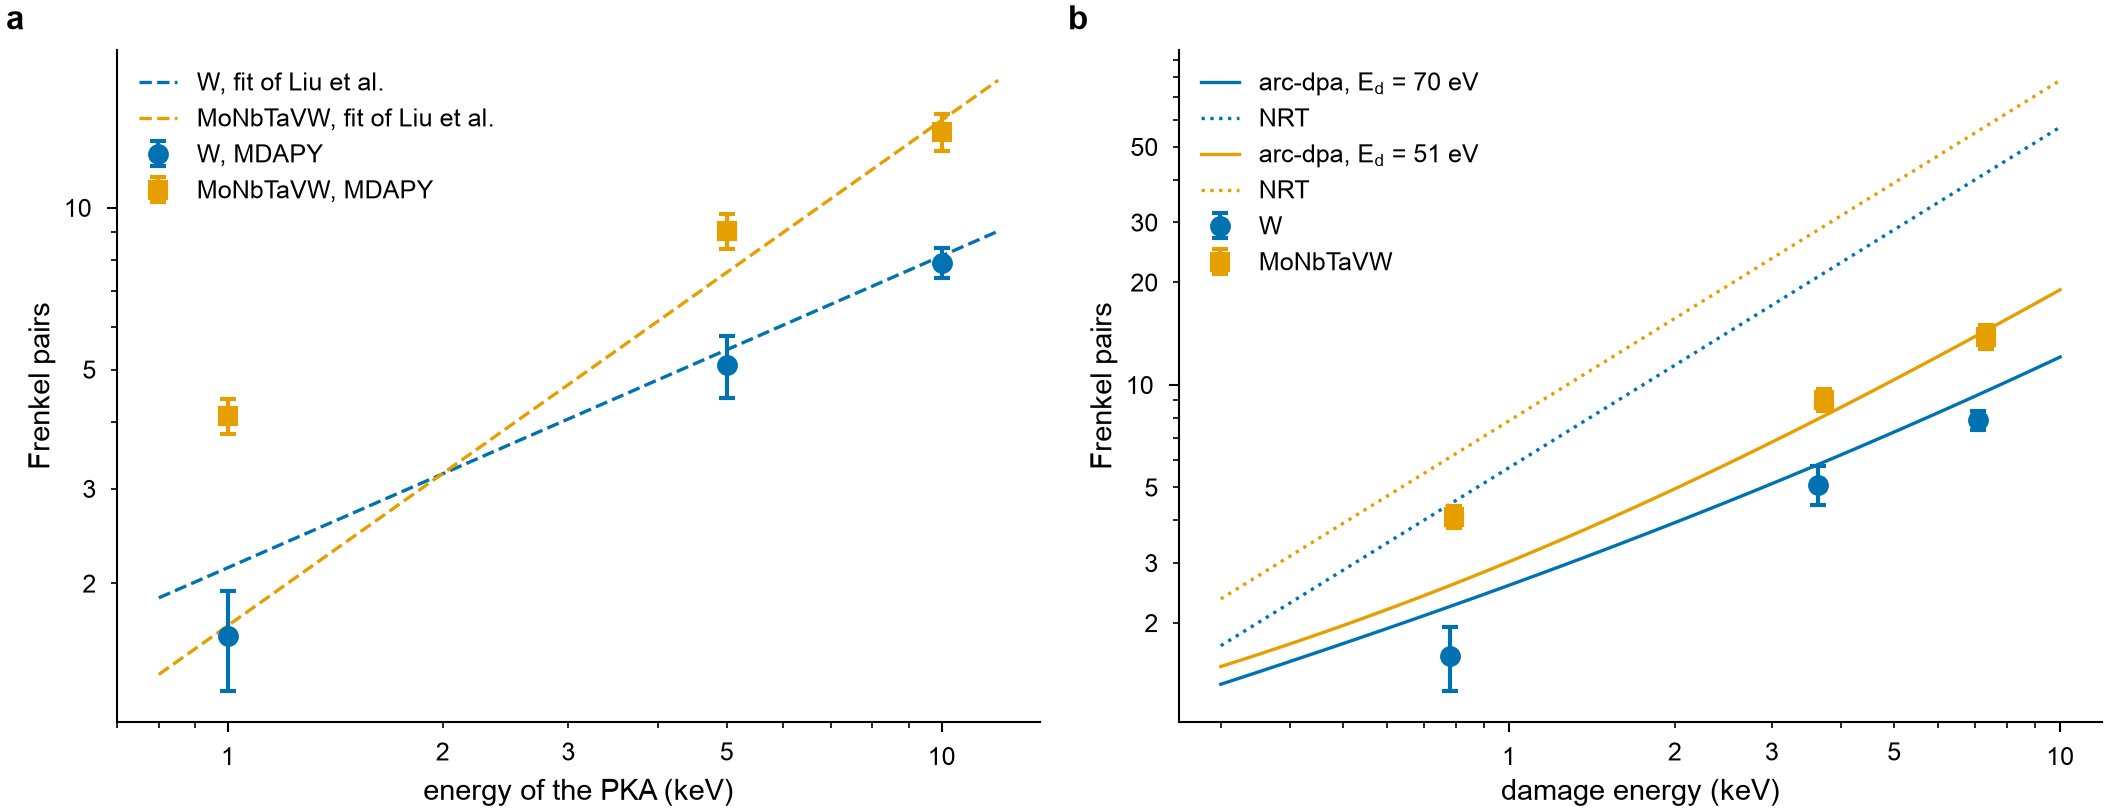
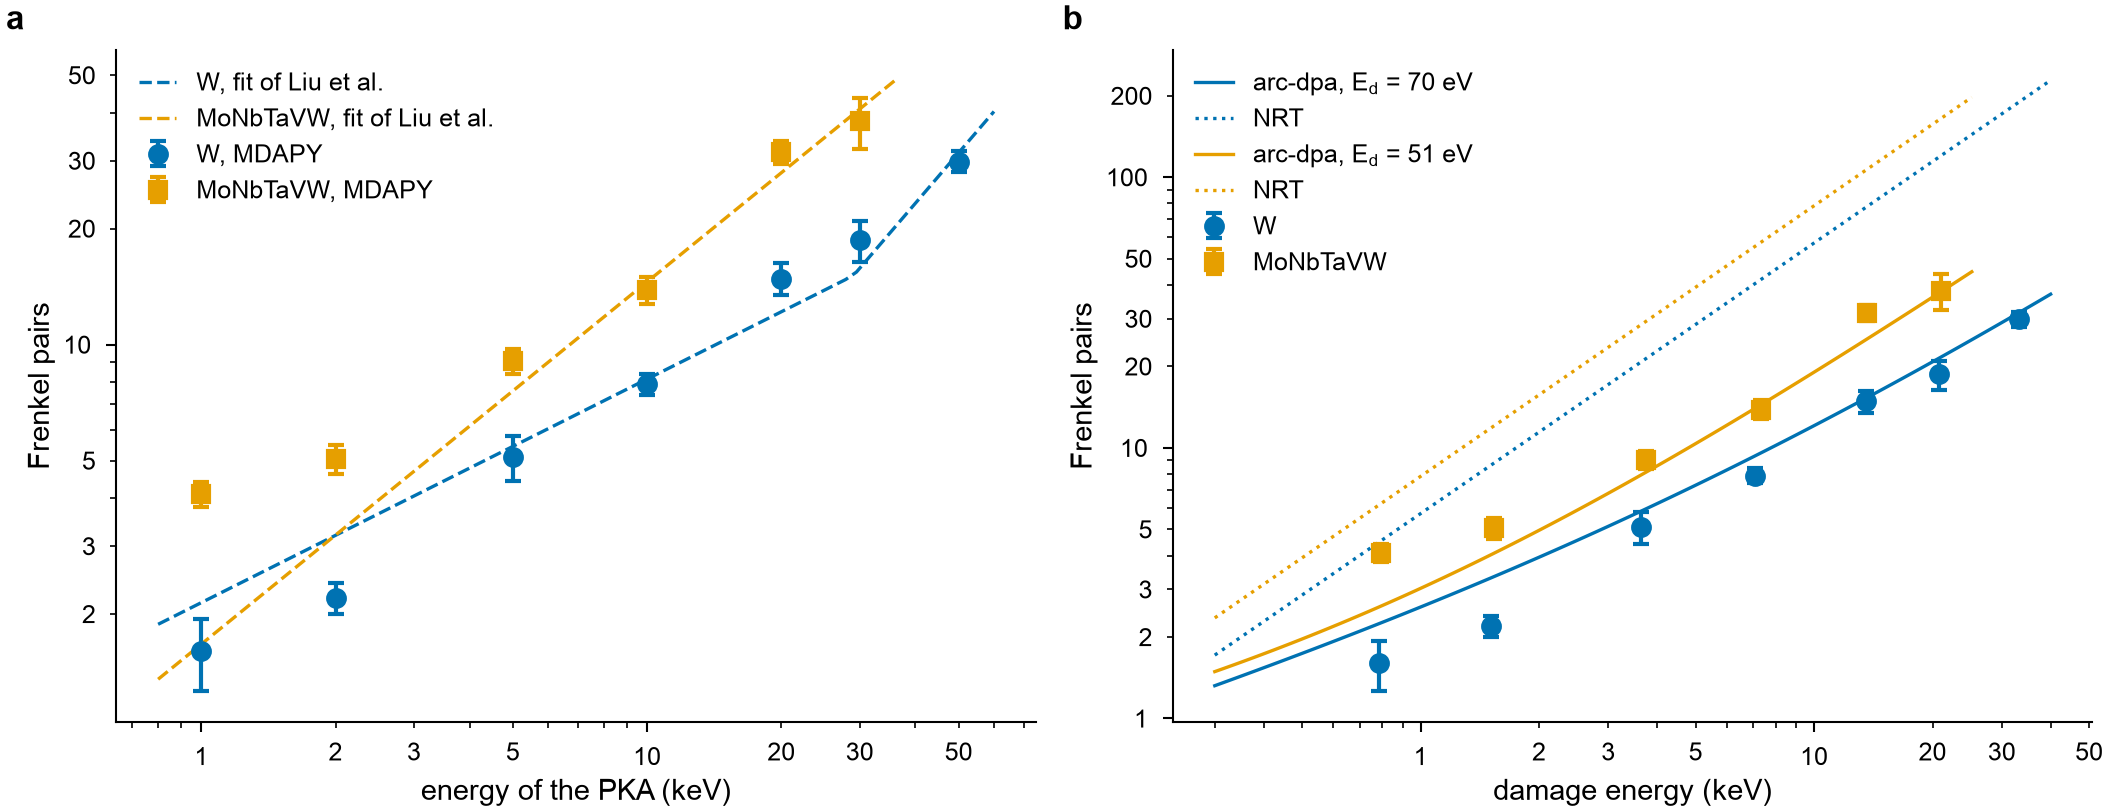
Docs: the radiation example's cascades from 1 to 50 keV in tungsten and 1 to 30 keV in MoNbTaVW: 2 keV in 250 000 atoms, 20, 30 and 50 keV in 2 million; tungsten reaches the steeper part of the fit of Liu et al. at 50 keV (29.8 pairs against 31.5), the alloy stays on its power law from 5 keV on

diff --git a/docs/examples/radiation-cascade.md b/docs/examples/radiation-cascade.md
@@ -11,8 +11,8 @@ candidate that may stand radiation better.
 This page follows [Liu et al. (2025)](../reference/references.md#liu2025) with their
 machine-learned potential: the threshold displacement energies of the five pure metals
 and of each element in the alloy over all directions, their Figures 3 and 4, and the
-Frenkel pairs that cascades of 1, 5 and 10 keV leave in tungsten and in the alloy, against
-the NRT and arc-dpa models.
+Frenkel pairs that cascades of 1 to 50 keV leave in tungsten and of 1 to 30 keV in the
+alloy, against the NRT and arc-dpa models.
 
 !!! note "The model"
     Liu et al. trained a NEP model of Mo, Nb, Ta, V and W on DFT, with a ZBL repulsion at
@@ -296,10 +296,11 @@ give in their text:
 
 ## Cascades
 
-The protocol of Liu et al., for 1, 5 and 10 keV:
+The protocol of Liu et al., for 1, 2, 5, 10, 20 and 30 keV, and 50 keV in tungsten:
 
-- 50 × 50 × 50 bcc cells, 250 000 atoms, 16 nm wide, relaxed for 10 ps at 300 K and zero
-  pressure; the alloy relaxed once, its runs differing by their PKA;
+- 50 × 50 × 50 bcc cells, 250 000 atoms, 16 nm wide, up to 10 keV, and 100 × 100 × 100,
+  2 000 000 atoms, 32 nm wide, from 20 keV on, relaxed for 10 ps at 300 K and zero
+  pressure; the alloy relaxed once for each size, its runs differing by their PKA;
 - a PKA near the center along a ⟨135⟩ direction, its order and signs varied from run to
   run, away from the open channels of the lattice; in the alloy each element in turn;
 - 50 ps at constant energy, the atoms within 3 lattice constants of the faces at 300 K;
@@ -363,7 +364,8 @@ with MolecularDynamics(shot, gpu, timestep=0.001) as md:
     damage = 5000.0 - md.thermo["electronic_loss"][-1]  # the damage energy, eV
 ```
 
-A cascade of 5 keV takes about 19 minutes on one GPU, the relaxation of the crystal included.
+A cascade of 5 keV takes about 19 minutes on one GPU, the relaxation of the crystal
+included; one of 50 keV in 2 million atoms about 7 hours.
 
 ### The Frenkel pairs against the energy
 
@@ -467,27 +469,39 @@ of the vacancies and of the interstitials in clusters of two or more:
 | Material | E_PKA (keV) | Runs | T_d (keV) | Frenkel pairs | Peak | Vacancies in clusters | Interstitials in clusters |
 |---|---:|---:|---:|---:|---:|---:|---:|
 | MoNbTaVW | 1 | 20 | 0.79 | 4.1 ± 0.3 | 41 | 34 % | 14 % |
+| MoNbTaVW | 2 | 20 | 1.53 | 5.0 ± 0.4 | 105 | 22 % | 10 % |
 | MoNbTaVW | 5 | 20 | 3.73 | 9.1 ± 0.7 | 406 | 36 % | 13 % |
 | MoNbTaVW | 10 | 20 | 7.35 | 13.8 ± 1.1 | 1128 | 45 % | 18 % |
+| MoNbTaVW | 20 | 5 | 13.66 | 31.6 ± 2.1 | 2994 | 38 % | 15 % |
+| MoNbTaVW | 30 | 5 | 20.97 | 38.0 ± 5.7 | 7962 | 38 % | 25 % |
 | W | 1 | 10 | 0.78 | 1.6 ± 0.3 | 9 | 8 % | 27 % |
+| W | 2 | 10 | 1.51 | 2.2 ± 0.2 | 44 | 13 % | 10 % |
 | W | 5 | 10 | 3.63 | 5.1 ± 0.7 | 135 | 13 % | 57 % |
 | W | 10 | 10 | 7.09 | 7.9 ± 0.5 | 403 | 10 % | 54 % |
+| W | 20 | 6 | 13.57 | 14.8 ± 1.4 | 1601 | 17 % | 69 % |
+| W | 30 | 6 | 20.79 | 18.7 ± 2.2 | 3689 | 10 % | 56 % |
+| W | 50 | 6 | 33.25 | 29.8 ± 1.9 | 5842 | 11 % | 70 % |
 
-- **Tungsten** follows the power law of Liu et al. within one standard error at 5 and
-  10 keV and two at 1 keV; arc-dpa, whose parameters Nordlund et al. fitted to other
-  potentials, lies 10 to 20 % above. Of the hundreds of pairs at the peak (135 at
-  5 keV, 400 at 10 keV), all but 5 to 8 recombine as the cascade cools.
+- **Tungsten** follows the two parts of the power law of Liu et al. within two standard
+  errors from 5 keV on, and reaches its steeper part at 50 keV: 29.8 pairs against its
+  31.5, from 18.7 at 30 keV. At 1 and 2 keV it keeps fewer, 1.6 and 2.2 against 2.1 and
+  3.2. arc-dpa, whose parameters Nordlund et al. fitted to other potentials, lies 3 to
+  18 % above from 5 keV on and 40 to 50 % above at 1 and 2 keV. Of the hundreds to
+  thousands of pairs at the peak (135 at 5 keV, 5800 at 50 keV), all but 5 to 30
+  recombine as the cascade cools.
 - **The alloy** keeps more Frenkel pairs than tungsten at every energy, 1.7 to 2.6 times
-  as many, as Liu et al. find over 1 to 150 keV; its peak is three times that of
-  tungsten. At 5 and 10 keV the pairs lie on Liu et al.'s power law; at 1 keV there are
-  4.1 where their law, a fit from 1 to 150 keV, gives 1.7: near the threshold, where
-  the alloy's thresholds, half those of tungsten, count most.
-- **The defects** cluster differently: in tungsten half of the interstitials sit in
-  clusters at 5 and 10 keV, and a tenth of the vacancies; in the alloy a third to nearly
-  a half of the vacancies and a sixth of the interstitials. Liu et al. find the same: fewer
+  as many, as Liu et al. find over 1 to 150 keV; its peak is two to five times that of
+  tungsten. From 5 keV on the pairs lie within about two standard errors of Liu et al.'s
+  power law (31.6 ± 2.1 against 27.9 at 20 keV, 38.0 ± 5.7 against 40.9 at 30 keV); at
+  1 and 2 keV there are 4.1 and 5.0 where their law, a fit from 1 to 150 keV, gives 1.7
+  and 3.2: near the threshold, where the alloy's thresholds, half those of tungsten,
+  count most.
+- **The defects** cluster differently: in tungsten 55 to 70 % of the interstitials sit in
+  clusters from 5 keV on, and 10 to 17 % of the vacancies; in the alloy 22 to 45 % of the
+  vacancies and 10 to 25 % of the interstitials. Liu et al. find the same: fewer
   clustered interstitials in the alloy, under a quarter, and more clustered vacancies.
 - The damage energies, from the stopping of Lindhard and Scharff, are 0.78, 3.6 and
-  7.1 keV in tungsten (Liu et al., from SRIM: 0.77, 3.9 and 7.7) and 0.79, 3.7 and
+  7.1 keV at 1, 5 and 10 keV in tungsten (Liu et al., from SRIM: 0.77, 3.9 and 7.7) and 0.79, 3.7 and
   7.4 keV in the alloy (0.84, 4.2 and 8.4).
 
 ## Running it
@@ -496,13 +510,15 @@ The four scripts that made this page run the protocols above on one GPU each:
 
 - [`tde.py`](radiation/tde.py) `MATERIAL ELEMENT COUNT SEED out.json`, the threshold
   displacement energies of `COUNT` random directions;
-- [`cascade.py`](radiation/cascade.py) `MATERIAL ENERGY RUN out.json`, one cascade;
+- [`cascade.py`](radiation/cascade.py) `MATERIAL ENERGY RUN out.json [SIZE] [PS]`, one
+  cascade in SIZE × SIZE × SIZE cells (50 by default) for PS picoseconds (50);
 - [`tde_figures.py`](radiation/tde_figures.py) and
   [`cascade_figures.py`](radiation/cascade_figures.py), the figures and the tables from
   their results.
 
-The thresholds of this page took about 47 GPU-hours, the 90 cascades about 30, 20 minutes
-each, on V100, A100, H100 and H200 GPUs of the Triton cluster of Aalto University.
+The thresholds of this page took about 47 GPU-hours, the 148 cascades about 245: 20 to
+40 minutes each up to 10 keV, 6 to 8 hours each from 20 keV on, on V100, A100, H100 and
+H200 GPUs of the Triton cluster of Aalto University.
 
 ## See also
 
